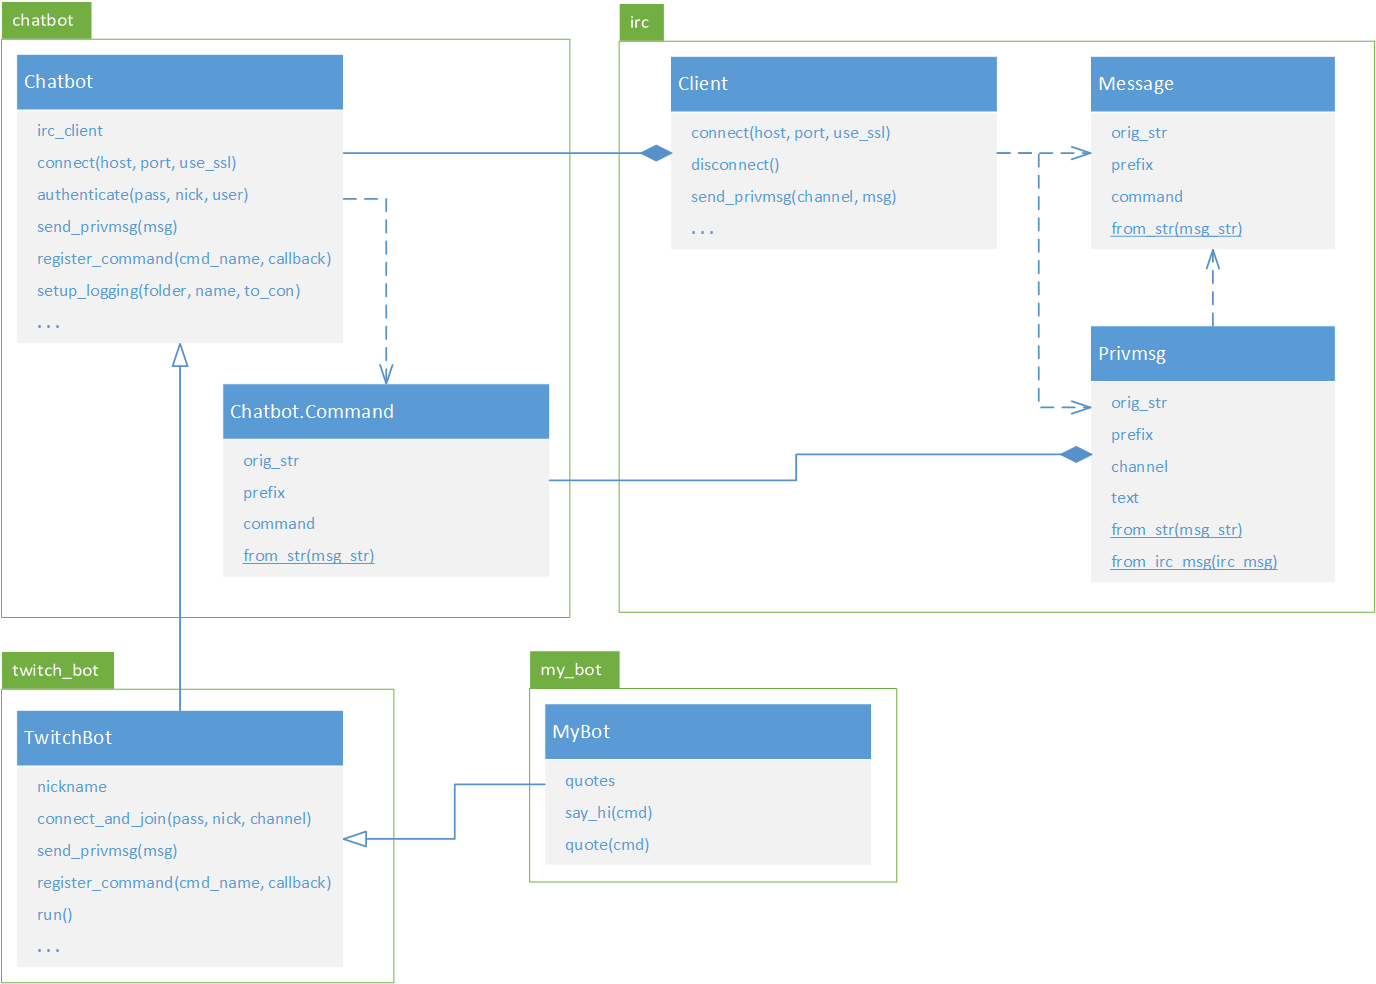
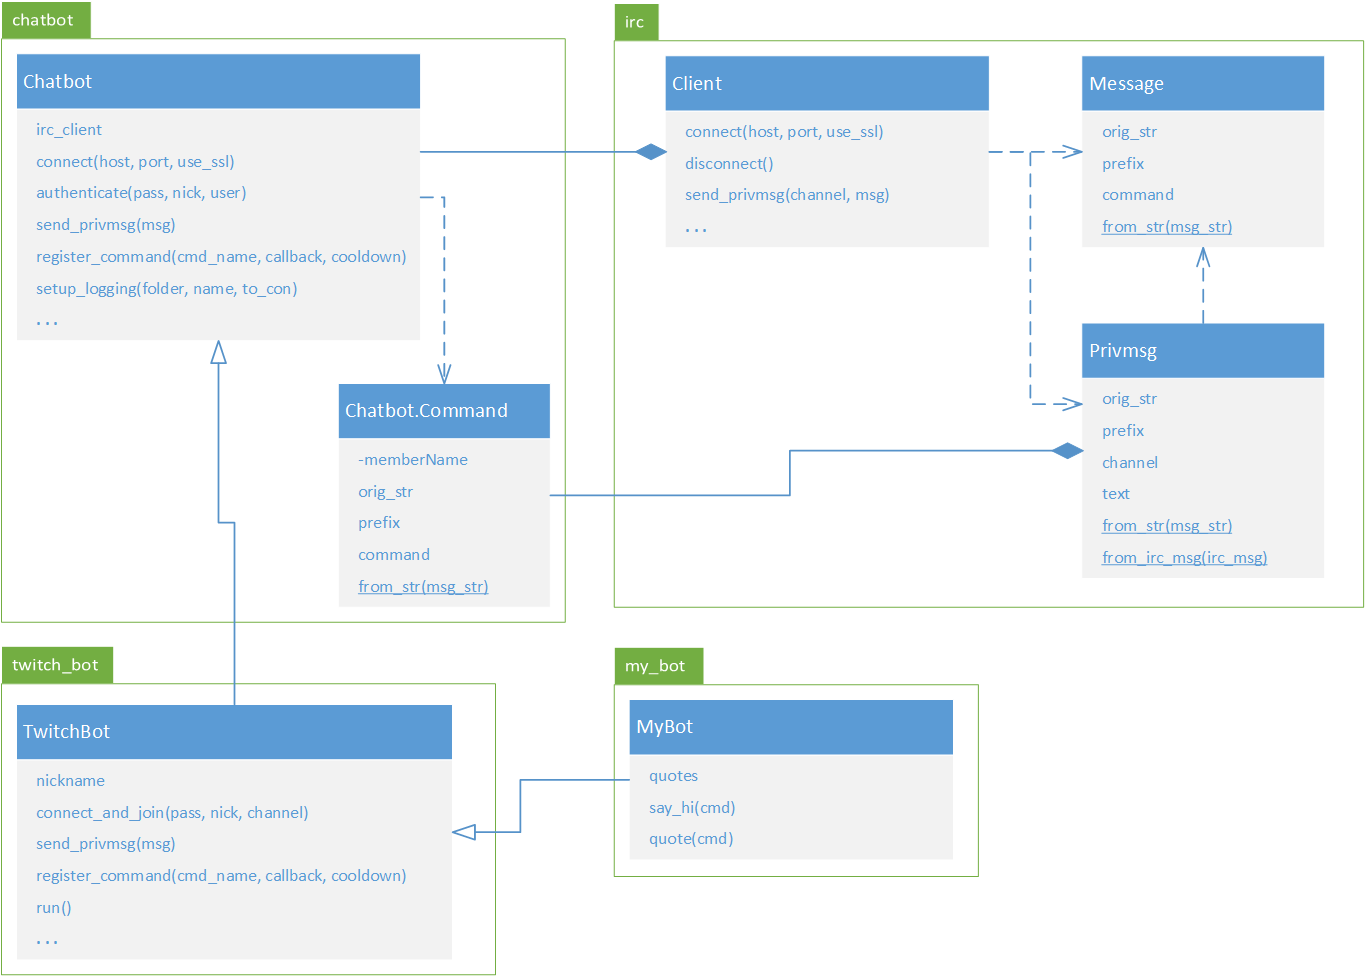
Added cooldown timer to commands and associated bugfixes and documentation.

diff --git a/twitch_bot.py b/twitch_bot.py
@@ -18,7 +18,7 @@ class TwitchBot(Chatbot):
 	"""
 	Chat bot base class made specifically for Twitch
 
-	In derived classes, commands handlers (responding to '!<command>' messages) are registered using the `@TwitchBot.new_command` decorator and must be methods that take a `Chatbot.Command` as parameter (along with self). The method name is used as command name and is not case-sensitive. The method docstring is used as help text if user types !help <command>. The name of the command (preceded or not by !) can be ommitted and will be inserted automatically.
+	In derived classes, commands handlers (responding to '!<command>' messages) are registered using the `@TwitchBot.new_command` decorator and must be methods that take a `Chatbot.Command` as parameter (along with self). The method name is used as command name and is not case-sensitive. The method docstring is used as help text if user types !help <command>. The name of the command (preceded or not by !) can be ommitted and will be inserted automatically. The `cooldown` parameter of the decorator is used to limit the frequency at which the command is triggered. It is a cooldown period after each dispatched call.
 
 	Example: 
 	.. code-block:: python
@@ -27,6 +27,10 @@ class TwitchBot(Chatbot):
 			def my_command(self, cmd: Chatbot.Command):
 				'''{some_required_param} [some_optional_param]'''
 				# Do something
+			@TwitchBot.new_command(cooldown=3.0)
+			def my_command(self, cmd: Chatbot.Command):
+				'''{some_required_param} [some_optional_param]'''
+				# Do something, but at most every 3 seconds because of cooldown
 
 	In this case, the command is activated by the message !my_command followed or not by something.
 	!help my_command will send the help string (so '!my_command {some_required_param} [some_optional_param]').
@@ -36,17 +40,27 @@ class TwitchBot(Chatbot):
 	"""
 
 	@classmethod
-	def new_command(cls, fn):
-		fn.is_command_function = True
-		return fn
+	def new_command(cls, cooldown):
+		def decorator(fn):
+			fn.command_cooldown = cooldown
+			fn.is_command_function = True
+			return fn
+		# Trick to check if decorator was applied without arguments. If the first argument is callable, then it is the function to be decorated
+		if callable(cooldown):
+			fn = cooldown
+			cooldown = 0
+			return decorator(fn)
+		else:
+			return decorator
 
 	twitch_chat_url = "irc.chat.twitch.tv"
 	twitch_chat_port = 6697
 	twitch_text_len_max = 500
 	help_command_names = ("commands", "help")
+	default_help_cooldown = 3.0
 
-	def __init__(self, logs_folder, log_to_console=True, pokemon_exception_handling=False):
-		super().__init__(command_char="!")
+	def __init__(self, logs_folder, log_to_console=True, pokemon_exception_handling=False, show_password=False):
+		super().__init__(command_char="!", show_password=show_password)
 		self.logs_folder = logs_folder
 		self.log_to_console = log_to_console
 		self.pokemon_exception_handling=pokemon_exception_handling
@@ -77,6 +91,7 @@ class TwitchBot(Chatbot):
 			self.receive_msgs()
 
 		self.join_channel(channel)
+		time.sleep(0.5)
 		while self.receive_msgs() == []:
 			pass
 
@@ -122,7 +137,7 @@ class TwitchBot(Chatbot):
 		else:
 			requested_command = cmd.params.split(None, 1)[0].lstrip("!").lower()
 			if requested_command in self.command_methods:
-				msg = self.command_methods[requested_command].__doc__
+				msg = self.command_methods[requested_command].callback.__doc__
 				self.send_privmsg(msg)
 			else:
 				self.send_privmsg(f"I don't know what '{requested_command}' is.")
@@ -134,14 +149,14 @@ class TwitchBot(Chatbot):
 			self.logger.warning(f"Message length {text_length} > {TwitchBot.twitch_text_len_max}")
 		return sent_msg, num_sent_bytes
 
-	def register_command(self, command_name, callback):
+	def register_command(self, command_name, callback, cooldown):
 		copied_callback = functools.partial(callback)
 		copied_callback.__doc__ = TwitchBot.format_usage_docstring(command_name, callback.__doc__)
-		super().register_command(command_name.lower(), copied_callback)
+		super().register_command(command_name.lower(), copied_callback, cooldown)
 
 	@staticmethod
-	def get_user(prefix):
-		return prefix.split("!", 1)[0]
+	def get_user(cmd: Chatbot.Command):
+		return cmd.privmsg.prefix.split("!", 1)[0]
 
 	@staticmethod
 	def format_usage_docstring(method_name, docstr):
@@ -163,12 +178,11 @@ class TwitchBot(Chatbot):
 			lambda fn: hasattr(fn, "is_command_function") and fn.is_command_function
 		)
 		for name, method in command_functions:
-			self.register_command(name.lower(), method)
+			self.register_command(name.lower(), method, method.command_cooldown)
 
 	def _register_help_commands(self):
 		help_fn = functools.partial(TwitchBot.send_supported_commands, self)
 		help_fn.__doc__ = "Shows the usage for a command."
 		for name in TwitchBot.help_command_names:
-			self.register_command(name, help_fn)
-
+			self.register_command(name, help_fn, TwitchBot.default_help_cooldown)
 

diff --git a/chatbot.py b/chatbot.py
@@ -8,6 +8,7 @@ import sys
 import os
 import time
 from dataclasses import dataclass
+import typing
 
 import irc
 
@@ -37,9 +38,16 @@ class Chatbot:
 		name: str
 		params: str
 
-	def __init__(self, command_char, global_prefix=None):
+	@dataclass
+	class DispatchInfo:
+		callback: typing.Any
+		cooldown: float # Seconds
+		last_call_time: float = 0.0
+
+	def __init__(self, command_char, global_prefix=None, show_password=False):
 		self.__irc_client = irc.Client()
 		self.global_prefix = global_prefix
+		self.show_password = show_password
 		self.command_char = command_char
 		self.__command_methods = {}
 		self.channel = None
@@ -87,7 +95,12 @@ class Chatbot:
 
 	def send(self, command, params):
 		sent_msg, num_sent_bytes = self.irc_client.send(self.global_prefix, command, params)
-		self.logger.info("< " + sent_msg)
+		if command == "PASS" and not self.show_password:
+			censored_msg = self.irc_client.format_msg(self.global_prefix, command, "*" * len(params))
+			self.logger.info("< " + censored_msg)
+		else:
+			self.logger.info("< " + sent_msg)
+
 		return sent_msg, num_sent_bytes
 
 	def send_privmsg(self, msg):
@@ -95,18 +108,21 @@ class Chatbot:
 		self.logger.info("< " + sent_msg)
 		return sent_msg, num_sent_bytes
 
-	def register_command(self, command_name, callback):
-		self.command_methods[command_name] = callback
+	def register_command(self, command_name, callback, cooldown=0):
+		self.command_methods[command_name] = Chatbot.DispatchInfo(callback, cooldown);
 
 	def dispatch_command(self, msg: irc.Privmsg):
+		now = time.time()
 		parts = msg.text.split(None, 1)
 		command_str = parts[0].lower()
 		if self.is_known_command(command_str):
-			fn = self.command_methods[command_str[1:]]
-			params = parts[1] if len(parts) == 2 else None
-			cmd = Chatbot.Command(msg, command_str, params)
-			fn(cmd)
-	
+			info = self.command_methods[command_str[1:]]
+			if now - info.last_call_time >= info.cooldown:
+				params = parts[1] if len(parts) == 2 else None
+				cmd = Chatbot.Command(msg, command_str, params)
+				info.last_call_time = now
+				info.callback((cmd))
+
 	def setup_logging(self, logs_folder, logger_name, log_to_console=True):
 		if not os.path.exists(logs_folder):
 			os.mkdir(logs_folder)
